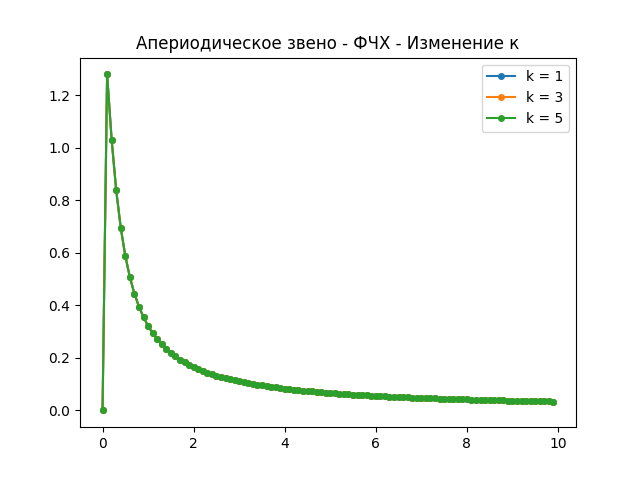
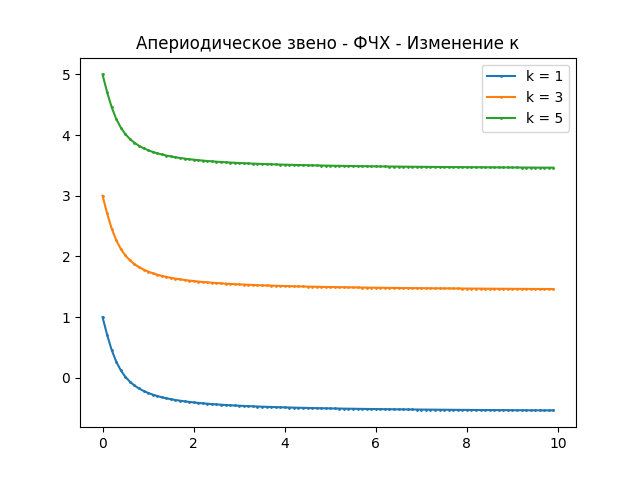
Починил фчх

diff --git a/Link.py b/Link.py
@@ -48,7 +48,7 @@ class Link:
 
         for k in 1, 3, 5:
             x, y = self.makeFCH(k, T, e)
-            plt.plot(x, y, marker='o', markersize=4)
+            plt.plot(x, y, marker='o', markersize=1)
 
         plt.title(f"{self.name} - ФЧХ - Изменение к")
         plt.legend(("k = 1", "k = 3", "k = 5"))

diff --git a/main.py b/main.py
@@ -10,7 +10,7 @@ def findModule(x, y):
 def findAngle(x, y):
     if y == 0:
         return 0
-    return math.atan(-x / y)
+    return math.atan(y / x)
 
 
 class Aper(Link.Link):
